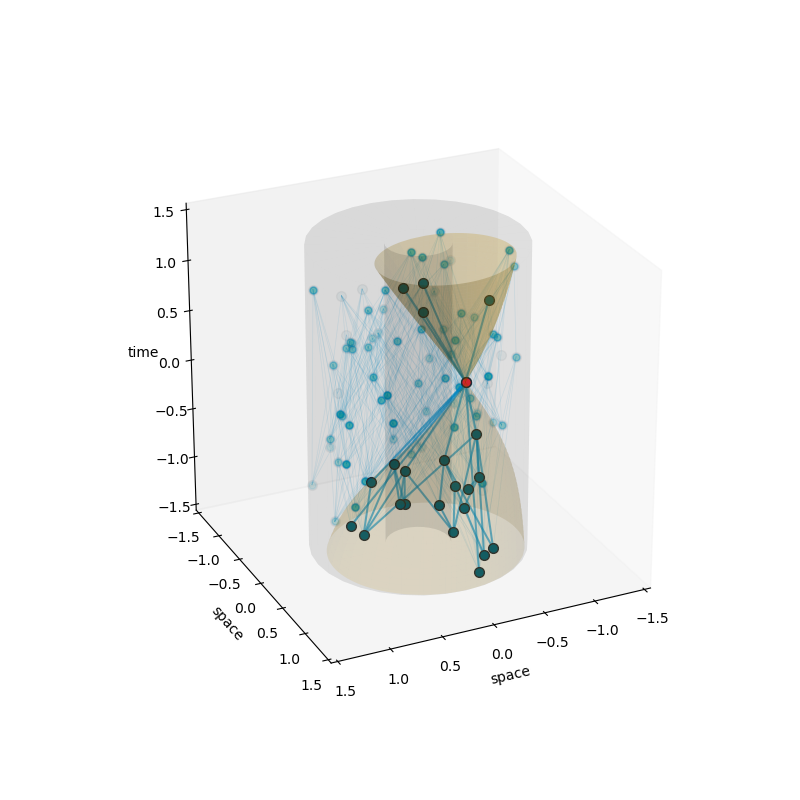
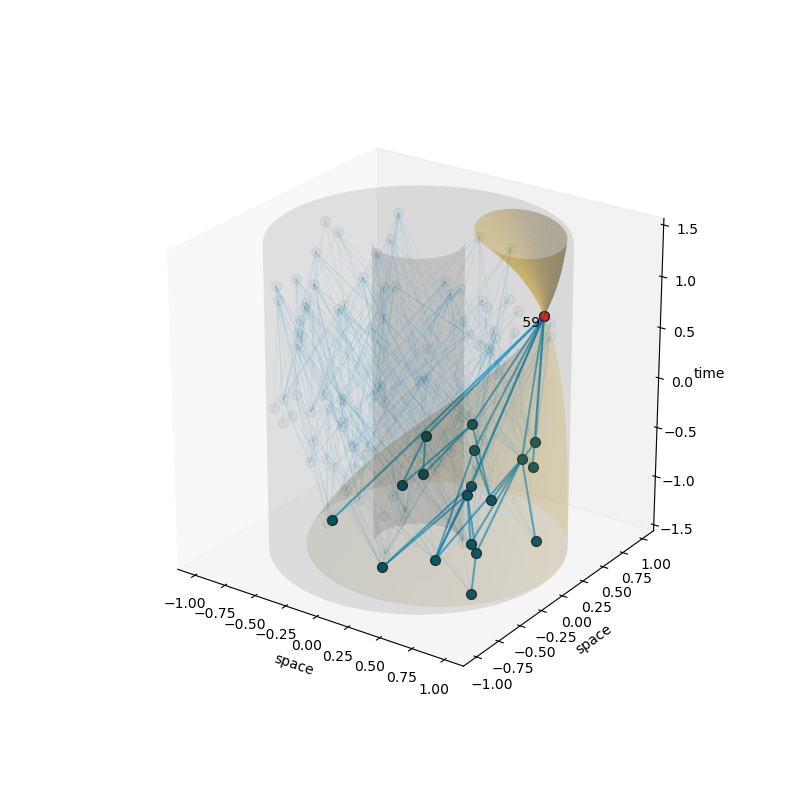
Bugfix: Initialization of the embedding dimension in the creator of sprinkled causal sets, correction of the demo file

diff --git a/demo.py b/demo.py
@@ -6,9 +6,11 @@ Created on 9 Oct 2020
 @license: BSD 3-Clause
 '''
 from __future__ import annotations
+from typing import List, Tuple
 from causets.sprinkledcauset import SprinkledCauset
 from causets.spacetimes import deSitterSpacetime
 from causets.shapes import CoordinateShape
+from causets.causetevent import CausetEvent
 from matplotlib import pyplot as plt
 import causets.causetplotting as cplt
 
@@ -40,7 +42,7 @@ cplt.plot(e, dims=dims, spacetime=C.Spacetime,
           pastcones={'alpha': 1.0},
           futurecones={'alpha': 1.0},
           time=timeslices)
-ax: axes.Axes = plt.gca()
+ax: plt.Axes = plt.gca()
 ax.set_xlabel('space' if dims[0] > 0 else 'time')
 ax.set_ylabel('space' if dims[1] > 0 else 'time')
 if len(dims) > 2:

diff --git a/sprinkledcauset.py b/sprinkledcauset.py
@@ -25,13 +25,12 @@ class SprinkledCauset(EmbeddedCauset):
 
     def __init__(self,
                  card: int = 0, intensity: float = 0.0,
-                 dim: int = 2,
+                 dim: int = -1,
                  spacetime: Spacetime = None,
                  shape: Union[str, CoordinateShape] = None) -> None:
         '''
         Generates a sprinkled causal set by sprinkling in a 
-        spacetime subset with dimension `dim` of at least 1. 
-
+        spacetime subset. 
         The arguments `dim`, `shape` and `spacetime` are handled by the 
         super class `EmbeddedCauset` before events are sprinkled.
 

diff --git a/embeddedcauset.py b/embeddedcauset.py
@@ -68,13 +68,14 @@ class EmbeddedCauset(Causet):
         super().__init__()
         # initialise dimension:
         if dim <= 0:
-            dim = 2  # default
             if (spacetime is not None) and isinstance(spacetime, Spacetime):
                 dim = spacetime.Dim
             elif (shape is not None) and isinstance(shape, CoordinateShape):
                 dim = shape.Dim
             elif coordinates is not None:
                 dim = len(coordinates[0])
+            else:
+                dim = 2  # default
         # initialise spacetime:
         M: Spacetime
         if spacetime is None:
